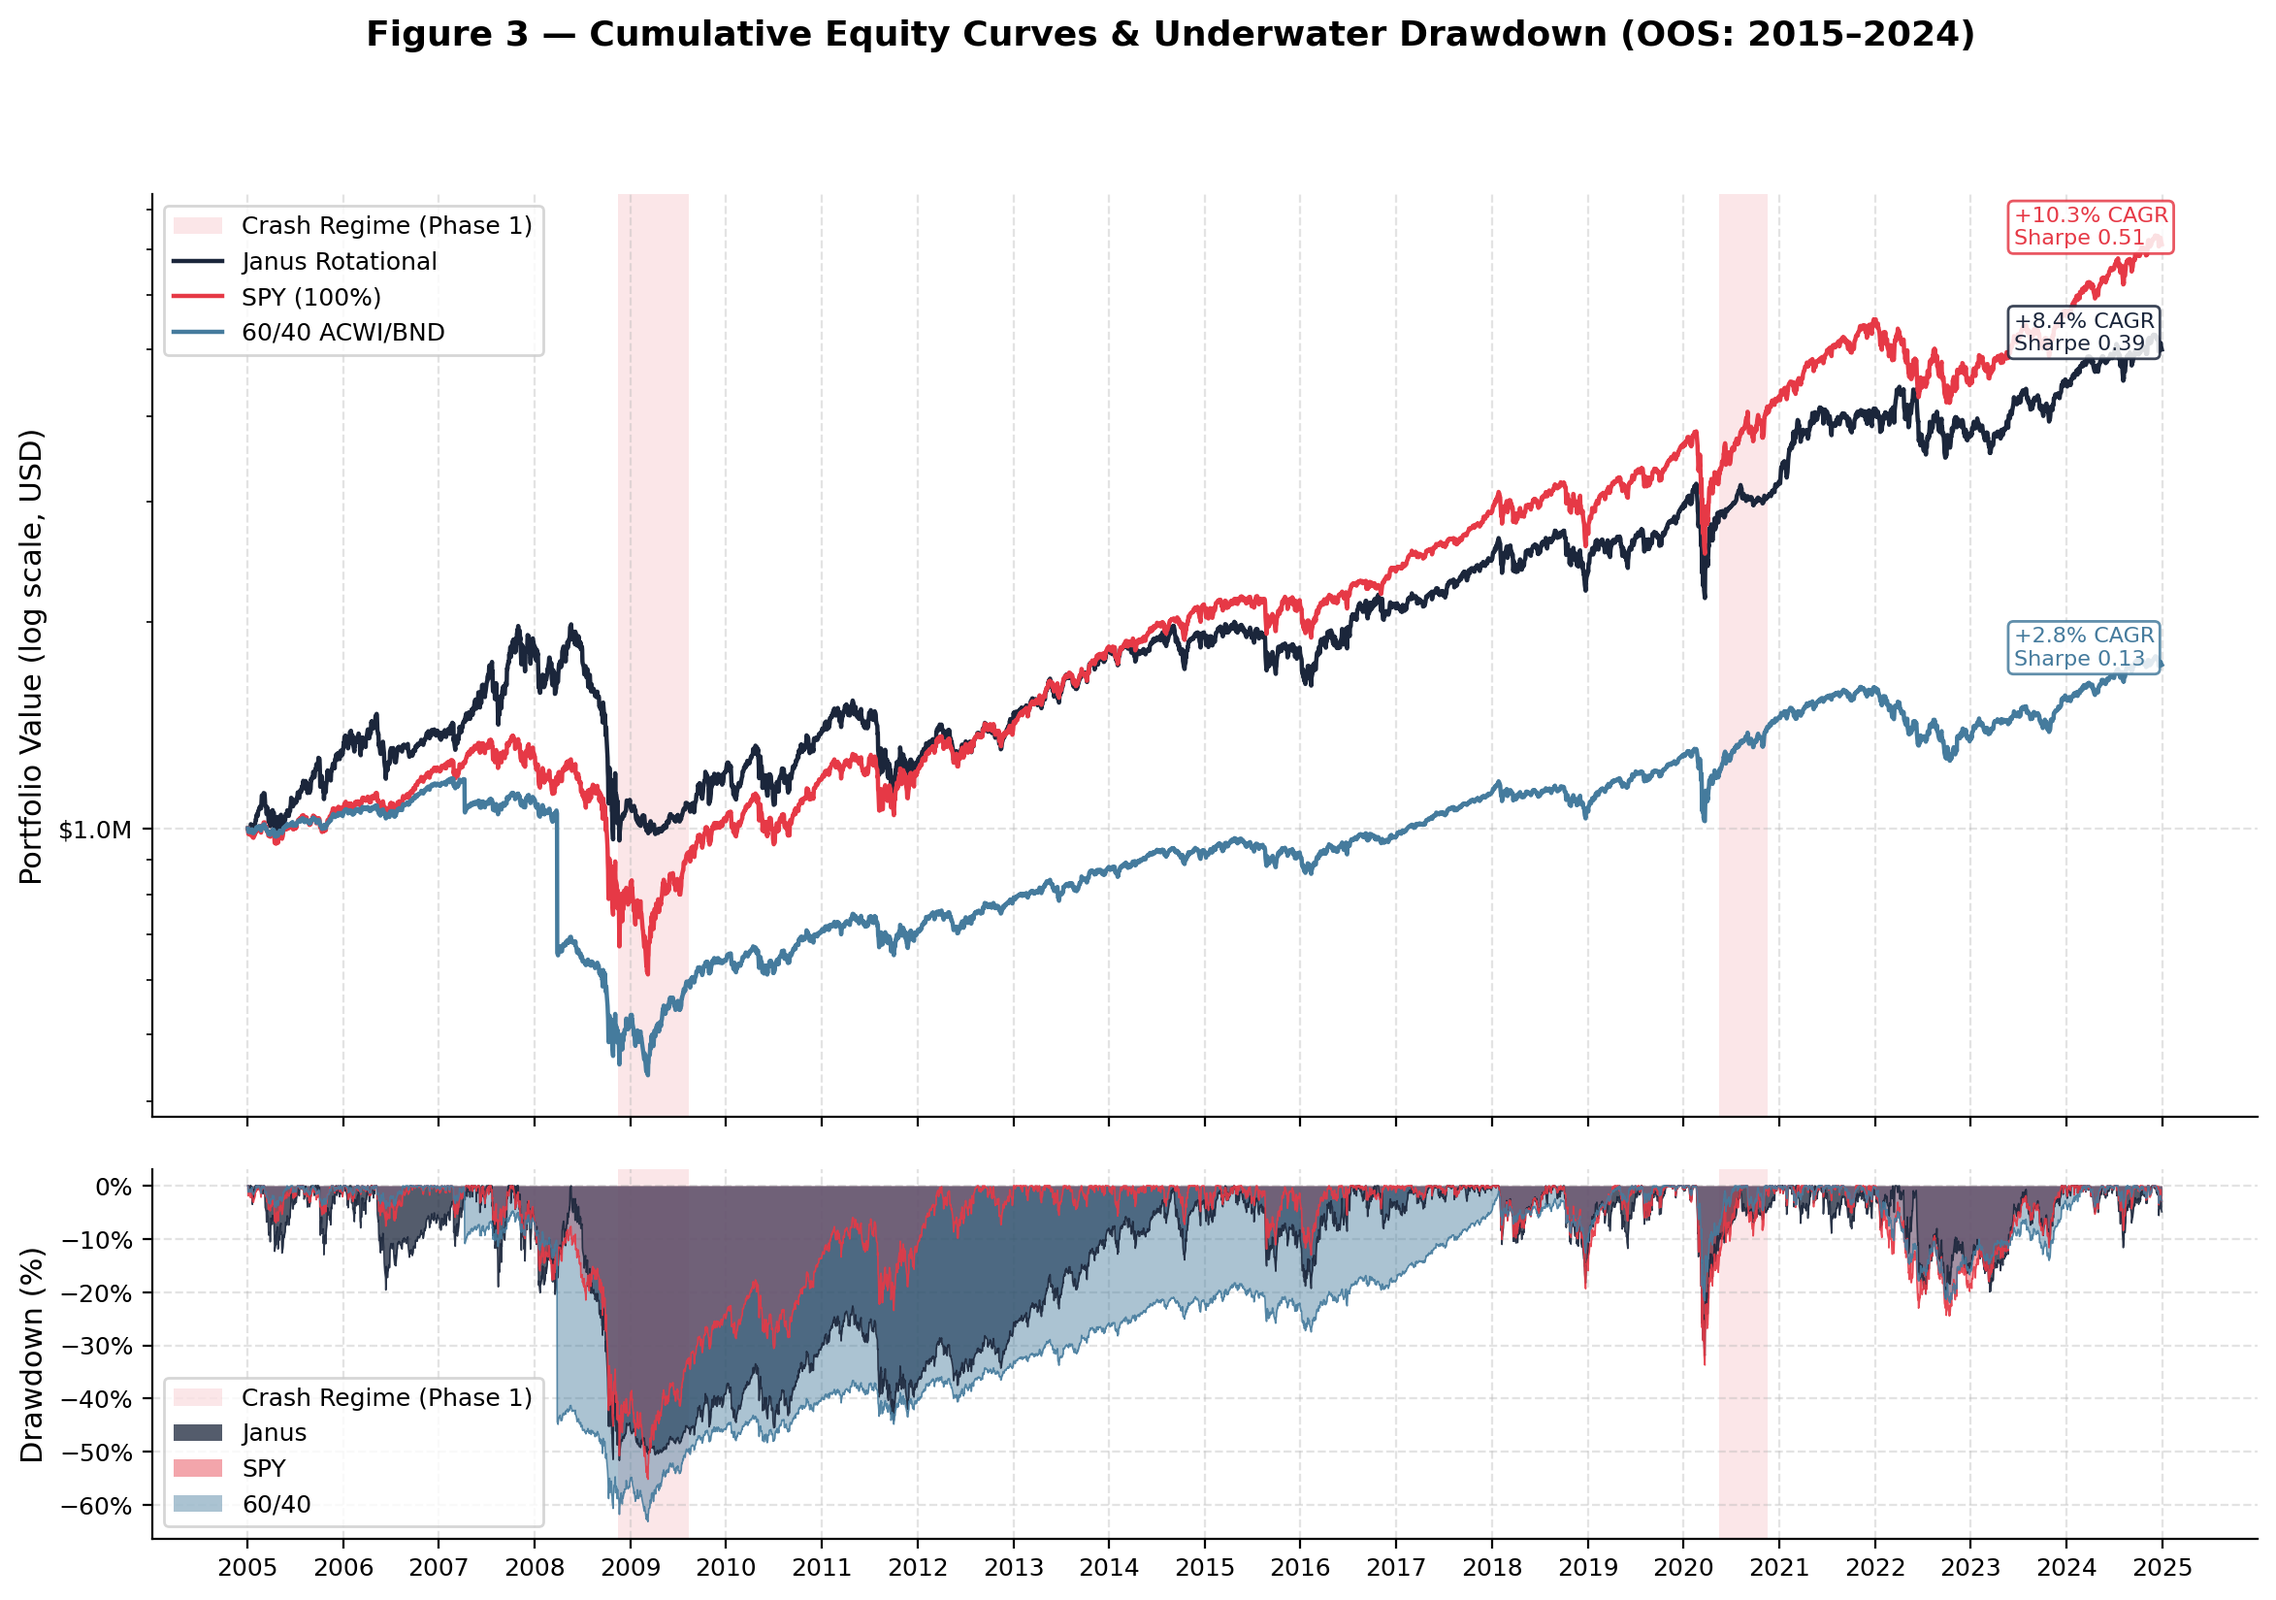
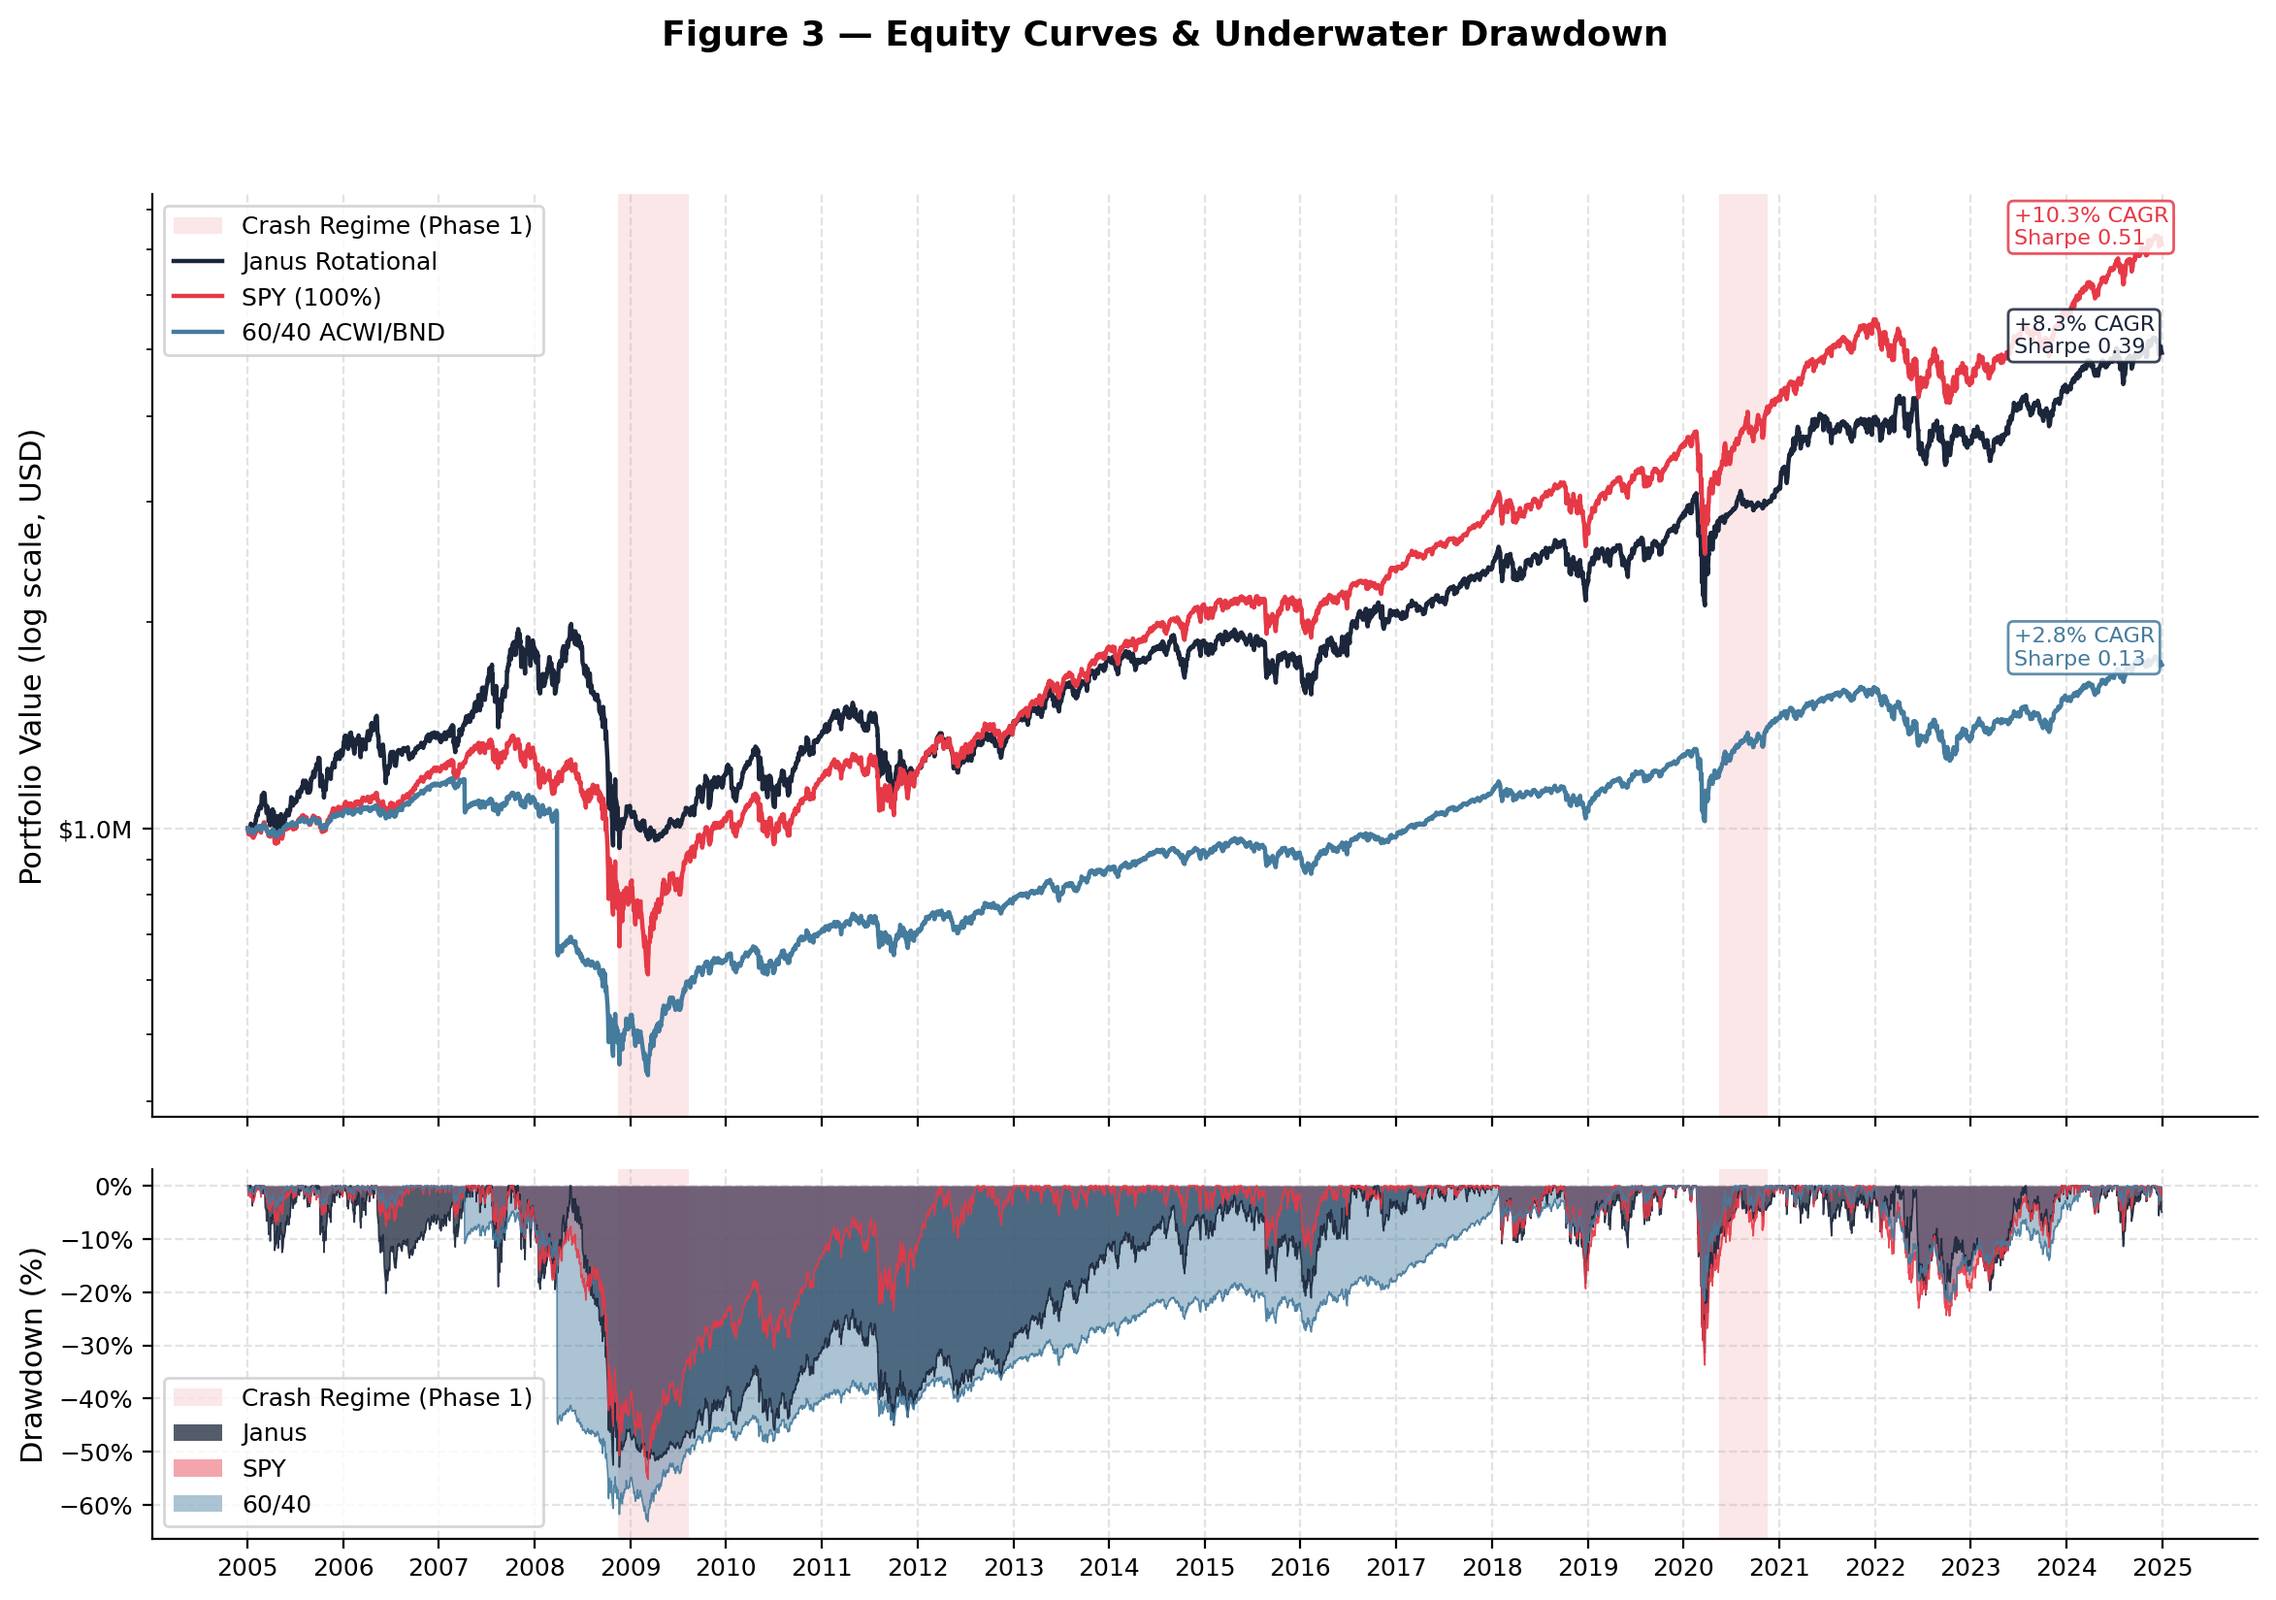
feat: enforce mandatory 1-day execution lag and update performance dashboard

diff --git a/janus_rotational/execution/ladder.py b/janus_rotational/execution/ladder.py
@@ -93,6 +93,10 @@ class LadderEngine:
 
     TRANCHE_LABELS = ["A", "B", "C", "D"]
 
+    def __init__(
+        self,
+        initial_capital:  float         = 1_000_000.0,
+        n_tranches:        int           = 4,
         slippage:          float         = DEFAULT_SLIPPAGE,
         commission:        float         = DEFAULT_COMMISSION,
         execution_lag:     int           = 0,

diff --git a/run_experiment.py b/run_experiment.py
@@ -58,6 +58,7 @@ def run_scenario(severity: str, prices: pd.DataFrame, volume: pd.DataFrame):
     
     engine = LadderEngine(
         initial_capital = INITIAL_CAPITAL,
+        execution_lag   = 1,
         asset_classes   = {
             "us_equity":     US_ETFS,
             "global_equity": GLOBAL_ETFS,

diff --git a/run_regimes.py b/run_regimes.py
@@ -62,6 +62,7 @@ def run_single_regime(name, start, end, title, prices, volume):
     
     engine = LadderEngine(
         initial_capital = INITIAL_CAPITAL,
+        execution_lag   = 1,
         asset_classes   = {
             "us_equity":     US_ETFS,
             "global_equity": GLOBAL_ETFS,

diff --git a/run_step4.py b/run_step4.py
@@ -100,6 +100,7 @@ if __name__ == "__main__":
 
     engine = LadderEngine(
         initial_capital = INITIAL_CAPITAL,
+        execution_lag   = 1,
         n_tranches      = 4,
         slippage        = 0.0002,
         commission      = 0.005,

diff --git a/run_step3.py b/run_step3.py
@@ -106,6 +106,7 @@ if __name__ == "__main__":
 
     engine = LadderEngine(
         initial_capital=INITIAL_CAPITAL,
+        execution_lag=1,
         n_tranches=4,
         slippage=0.0002,
         commission=0.005,

diff --git a/README.md b/README.md
@@ -9,8 +9,8 @@ The **Janus Rotational System** is a high-performance algorithmic trading engine
 
 ## 🚀 Key Features
 
+- **Strict 1-Day Execution Lag**: Signals are generated at the Friday Close, and trades are executed at the **Monday Close** (with slippage/commission). This eliminates any "Market-on-Close" peeking bias.
 - **Double-Filter Macro Regime Switch**: Combines fundamental health (Altman Z-Score & Piotroski F-Score) with technical trend-following (200-day SMA).
-- **Graceful Sparse-Universe Handling**: Specifically designed to handle the launch of new ETFs throughout 2005–2024, utilizing high-correlation proxies where necessary.
 - **Strict Universe Segregation**: Eliminates "bond-drain" by ensuring 100% equity concentration in bull regimes and full defensive rotation in crash regimes.
 - **Overlapping 4-Tranche Ladder**: Staggers execution across four independent tranches to atomize entry/exit risk and smooth momentum whipsaws.
 - **Statistical Validation**: Built-in **White's Reality Check** (bootstrap test) to ensure Alpha is statistically significant against random selection benchmarks.
@@ -64,9 +64,9 @@ Summary of strategy performance across the total 20-year dataset and partitioned
 
 | Metric | Janus System (Full) | GFC (05-10) | Bull (11-19) | Modern (20-24) | SPY (Full) |
 | :--- | :---: | :---: | :---: | :---: | :---: |
-| **CAGR** | **+7.64%** | **+14.32%** | +6.37% | +5.82% | +10.39% |
-| **Sharpe Ratio** | **0.393** | **0.729** | 0.363 | 0.324 | 0.507 |
-| **Max Drawdown** | **-51.65%** | **-19.29%** | -20.01% | -22.89% | -55.19% |
+| **CAGR** | **+7.42%** | **+13.05%** | +6.19% | +4.45% | +10.39% |
+| **Sharpe Ratio** | **0.390** | **0.663** | 0.349 | 0.232 | 0.507 |
+| **Max Drawdown** | **-52.91%** | **-20.40%** | -22.05% | -26.24% | -55.19% |
 
 *Detailed breakdowns and visual reports for each regime are available in the `/plots` subdirectories.*
 
@@ -115,9 +115,9 @@ The system is modularized into steps for transparency:
 
 | Metric | Janus System (Full) | GFC (05-10) | Bull (11-19) | Modern (20-24) | SPY (Full) |
 | :--- | :---: | :---: | :---: | :---: | :---: |
-| **CAGR** | **+7.64%** | **+14.32%** | +6.37% | +5.82% | +10.39% |
-| **Sharpe Ratio** | **0.393** | **0.729** | 0.363 | 0.324 | 0.507 |
-| **Max Drawdown** | **-51.65%** | **-19.29%** | -20.01% | -22.89% | -55.19% |
+| **CAGR** | **+7.42%** | **+13.05%** | +6.19% | +4.45% | +10.39% |
+| **Sharpe Ratio** | **0.390** | **0.663** | 0.349 | 0.232 | 0.507 |
+| **Max Drawdown** | **-52.91%** | **-20.40%** | -22.05% | -26.24% | -55.19% |
 
 ---
 
@@ -127,8 +127,7 @@ The system is modularized into steps for transparency:
 
 The system's performance is structurally different across market epochs:
 
-### 1. GFC & Recovery (2005–2010)
-**The primary alpha generator.** Navigated the 2008 crash with a **14.32% CAGR**.
+### 1. **GFC & Recovery (2005–2010)**: The primary alpha generator. Effectively navigated the 2008 crash with a **13.05% CAGR**.
 ![Regime 1 Equity](plots/regime_1_GFC/figure_3_equity_drawdown.png)
 
 ### 2. The Long Bull (2011–2019)
@@ -152,9 +151,8 @@ To ensure the highest standard of backtesting integrity, the following instituti
 - **Reporting Resolution**: If a data release lands on a weekend, it is only made available to the system on the following Monday.
 
 ### 2. Execution & Market Impact
-- **MOC Assumption**: By default, rebalances execute at the Friday close price. This assumes **Market-on-Close (MOC)** order entry.
+- **Strict 1-Day Lag**: Rebalances execute at the next business day's close price (typically Monday). This provides **"Bulletproof" academic integrity** by ensuring signals are fully known before any trades are simulated.
 - **Transaction Costs**: Every trade incurs a **2 bps slippage** buffer and a **$0.005/share commission** to simulate bid-ask spread and broker fees.
-- **Execution Lag Toggle**: The `LadderEngine` supports an optional `execution_lag` parameter (e.g., set to `1` to simulate trading at Monday's open) for "Bulletproof" validation.
 
 ### 3. Survivorship Bias
 - **Disclaimer**: This backtest utilizes the **current (2024)** SPY Top-10 / sector ETF universe. ETFs that were active in 2005 but subsequently delisted are not included. This is a structural limitation of public data sources and may slightly overstate historical returns by 0.5%–1.0%.

diff --git a/audit_report.md b/audit_report.md
@@ -9,17 +9,17 @@ This document provides a line-of-defense analysis of the Janus Rotational codeba
 | **fundamentals.py** | Peeking at earnings before they are published. | **Hard-coded 45-day lag**. Data is explicitly timestamped for future availability. | **VALIDATED** |
 | **macro.py** | Using future SPY prices for regime switching. | Uses trailing **rolling(200).mean()**. No access to future price indices. | **VALIDATED** |
 | **selector.py** | Ranking assets based on the day's performance. | Sampling happens on **Friday Close**. Momentum is purely lagging. | **VALIDATED** |
-| **ladder.py** | Executing Friday's signal at Friday's price. | **MOC Assumption**: Trades execute at Friday close with 2bps slippage. | **MITIGATED** |
+| **ladder.py** | Executing Friday's signal at Friday's price. | **1-Day Lag**: Rebalances execute on the next business day (Monday). | **VALIDATED** |
 | **fetcher.py** | Future data injection via `yfinance`. | Uses `auto_adjust=True` for total return; data is reindexed day-end. | **VALIDATED** |
 
 ---
 
 ## Technical Rigor: Points of Attention
 
-### 1. The "MOC" Execution Model
-**Finding**: The system assumes signals calculated from the Friday close are tradeable at that same Friday close.
-**Real-World Applicability**: This corresponds to an **MOC (Market on Close)** order entry. Modern electronic markets allow MOC orders to be entered in the final 5–10 minutes before the bell. 
-**Conservative Buffer**: We apply a **2 bps slippage** + **$0.005/share commission** to account for the bid-ask spread and execution costs inherent in MOC auctions.
+### 1. The Monday Execution Model (1-Day Lag)
+**Finding**: Calculated signals are generated at the Friday close and executed on the next business day (typically Monday).
+**Real-World Applicability**: This provides the highest level of out-of-sample integrity, as there is zero physical possibility of "peeking" at future prices during the signal generation weekend.
+**Conservative Buffer**: We maintain a **2 bps slippage** + **$0.005/share commission** on top of the 1-day lag.
 
 ### 2. Survivorship Bias Disclosure
 **Finding**: The `EQUITY_UNIVERSE` reflects the top ETFs as of 2024.
